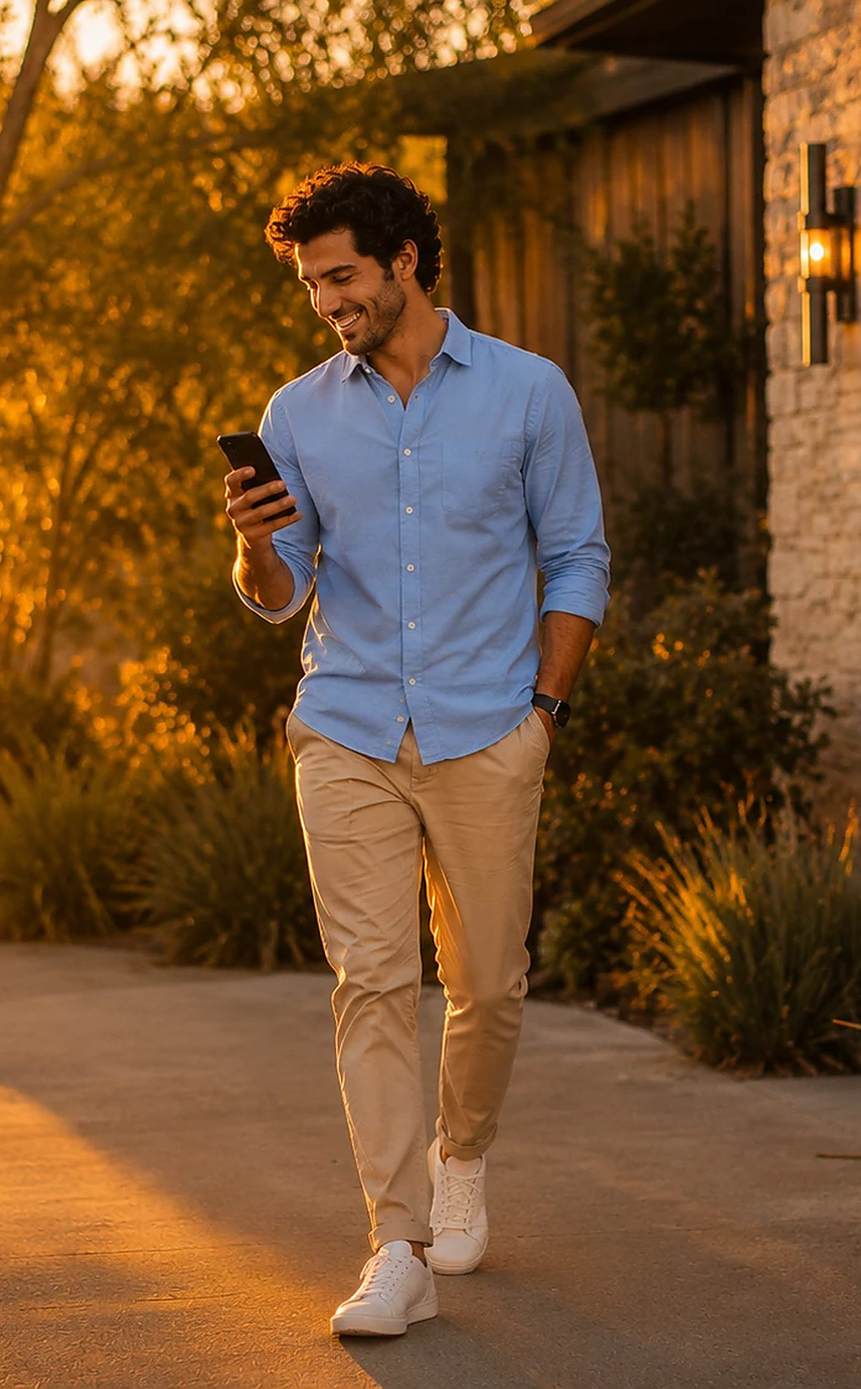
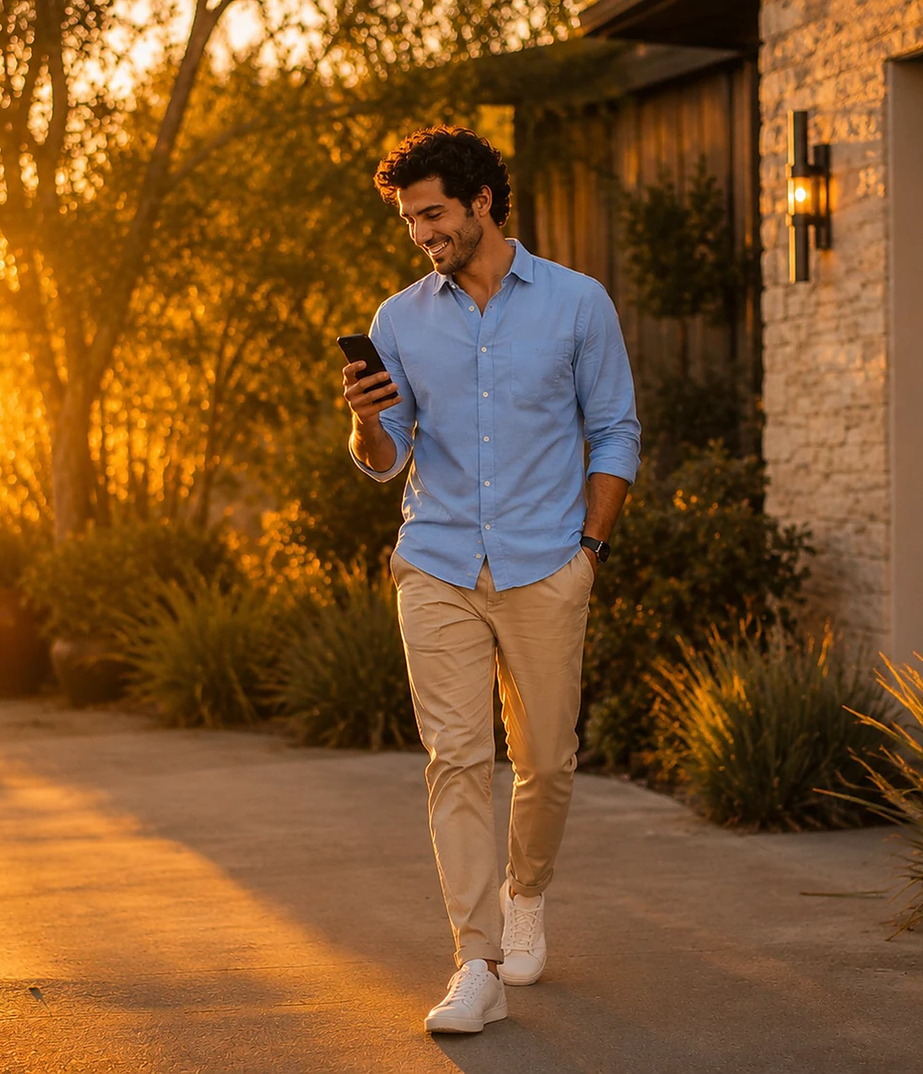
fix: the hero photo was unreadable on phones
From the client's own screenshots on a 1080x2424 Android: only the subject's
torso and legs were visible, his face cut off entirely, so the image read as
an unidentifiable blur behind the text.

Two causes. The portrait crop was far too tight (0.62 aspect from a 1.25
source threw away half the scene), and background-size:cover then cropped it
further on a 0.45-aspect screen.

Reframed to a 0.86-aspect crop that keeps the sunset, trees, bushes and the
house alongside the subject, and changed the phone layout so the photo is a
full-width aspect-ratio band with background-size:100% auto — nothing is
cropped sideways at all. The headline block now sits below it and pulls up 78px
over the faded bottom edge, so it still reads as one photo hero. Desktop keeps
the original full-bleed treatment.

Verified at the client's exact viewport (411x923 @DPR2.625), iPhone and
desktop: no horizontal overflow, no page errors, photo band present on phones
and hidden on desktop where the full-bleed image takes over.

diff --git a/index.html b/index.html
@@ -47,15 +47,18 @@
   .btn.out{background:#fff;color:var(--navy);border:2px solid var(--line);box-shadow:none}
   .btn.full{width:100%}
 
-  /* ================= HERO ================= */
-  /* mobile gets a portrait crop so none of its pixels are wasted on the cropped-away sides */
-  .hero{position:relative;min-height:94vh;min-height:94svh;display:flex;flex-direction:column;overflow:hidden;
-        background:#0b1a33 url("assets/hero-photo-mobile.jpg") center top / cover no-repeat}
-  @media(min-width:901px){ .hero{background-image:url("assets/hero-photo.jpg");background-position:center 30%} }
-  .hero::after{content:"";position:absolute;inset:0;z-index:1;pointer-events:none;
-    background:linear-gradient(180deg,rgba(6,16,36,.60) 0%,rgba(6,16,36,.08) 24%,rgba(6,16,36,.24) 52%,rgba(6,16,36,.82) 100%)}
+  /* ================= HERO =================
+     On phones the photo is shown at FULL WIDTH (aspect-ratio box, nothing cropped
+     sideways) so the whole scene reads; the text sits below and overlaps its faded
+     bottom edge. Desktop keeps the full-bleed treatment. */
+  .hero{position:relative;display:flex;flex-direction:column;overflow:hidden;background:var(--navy2)}
+  .shot{position:relative;width:100%;aspect-ratio:964/1122;
+        background:url("assets/hero-photo-mobile.jpg") center top / 100% auto no-repeat}
+  .shot::after{content:"";position:absolute;inset:0;pointer-events:none;
+    background:linear-gradient(180deg,rgba(6,16,36,.52) 0%,rgba(6,16,36,0) 22%,
+               rgba(6,16,36,0) 52%,rgba(6,16,36,.72) 84%,var(--navy2) 100%)}
 
-  header nav{position:relative;z-index:70;display:flex;align-items:center;justify-content:space-between;gap:14px;padding:18px 22px}
+  header nav{position:absolute;top:0;left:0;right:0;z-index:70;display:flex;align-items:center;justify-content:space-between;gap:14px;padding:18px 22px}
   .logo{height:34px;filter:brightness(0) invert(1);display:block}
   .links{display:none;gap:26px;align-items:center}
   .links a{color:rgba(255,255,255,.94);font-weight:600;font-size:15px;white-space:nowrap}
@@ -88,7 +91,7 @@
   .float p{font-size:13px;font-weight:600;color:var(--navy);line-height:1.35;margin-top:2px}
   .float small{font-size:11px;color:var(--muted);font-weight:600}
 
-  .hbody{position:relative;z-index:15;margin-top:auto;padding:18px 22px 32px}
+  .hbody{position:relative;z-index:15;margin-top:-78px;padding:0 22px 34px}
   .eb{display:inline-flex;align-items:center;gap:8px;font-family:'Geist Mono',monospace;font-size:10.5px;font-weight:600;
       letter-spacing:.12em;text-transform:uppercase;color:#cfe4ff;background:rgba(255,255,255,.14);
       border:1px solid rgba(255,255,255,.28);padding:7px 13px;border-radius:999px;backdrop-filter:blur(6px)}
@@ -202,6 +205,12 @@
 
   /* ===== desktop ===== */
   @media(min-width:900px){
+    /* desktop: back to one full-bleed photo with the text over it */
+    .hero{min-height:94vh;min-height:94svh;background:#0b1a33 url("assets/hero-photo.jpg") center 30% / cover no-repeat}
+    .shot{display:none}
+    .hbody{margin-top:auto;padding:0 40px 60px}
+    .hero::after{content:"";position:absolute;inset:0;z-index:1;pointer-events:none;
+      background:linear-gradient(180deg,rgba(6,16,36,.58) 0%,rgba(6,16,36,.06) 26%,rgba(6,16,36,.22) 54%,rgba(6,16,36,.80) 100%)}
     .links{display:flex}
     .burger{display:none}
     header nav{padding:24px 40px}
@@ -273,6 +282,8 @@
       <small>Jazmín R. · Google review</small>
     </span>
   </div>
+
+  <div class="shot" role="img" aria-label="A man walking up his driveway at sunset, checking his phone"></div>
 
   <div class="hbody">
     <span class="eb">Licensed independent agency · El Paso, TX</span>
